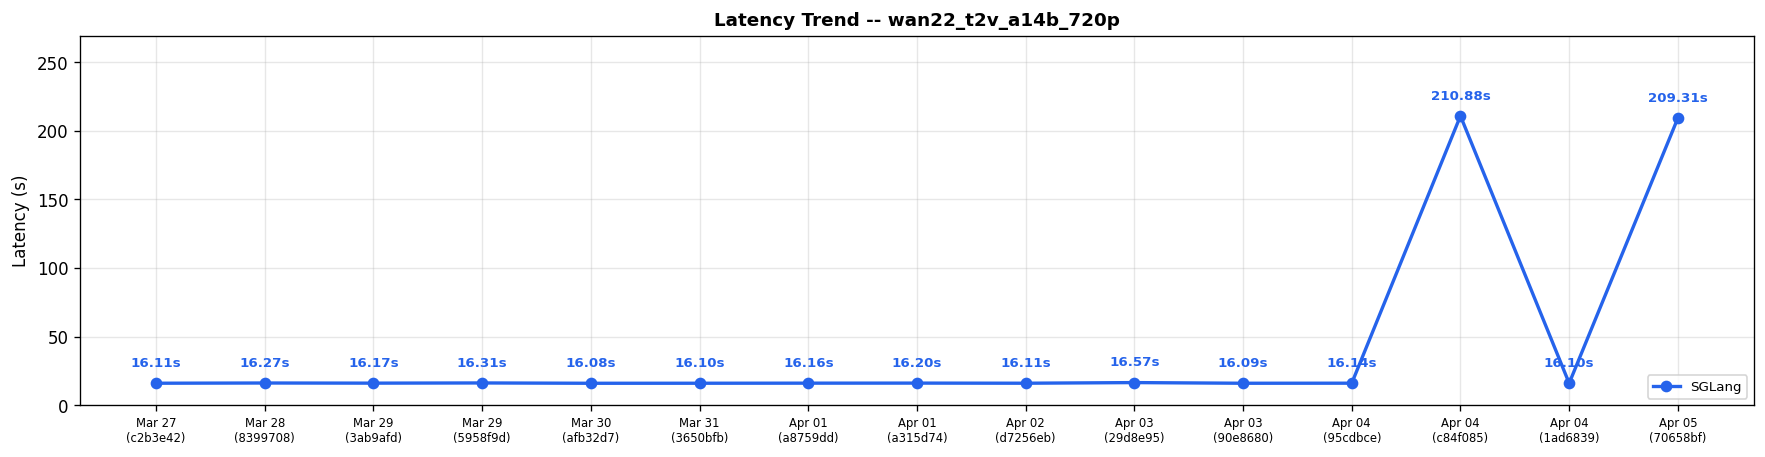
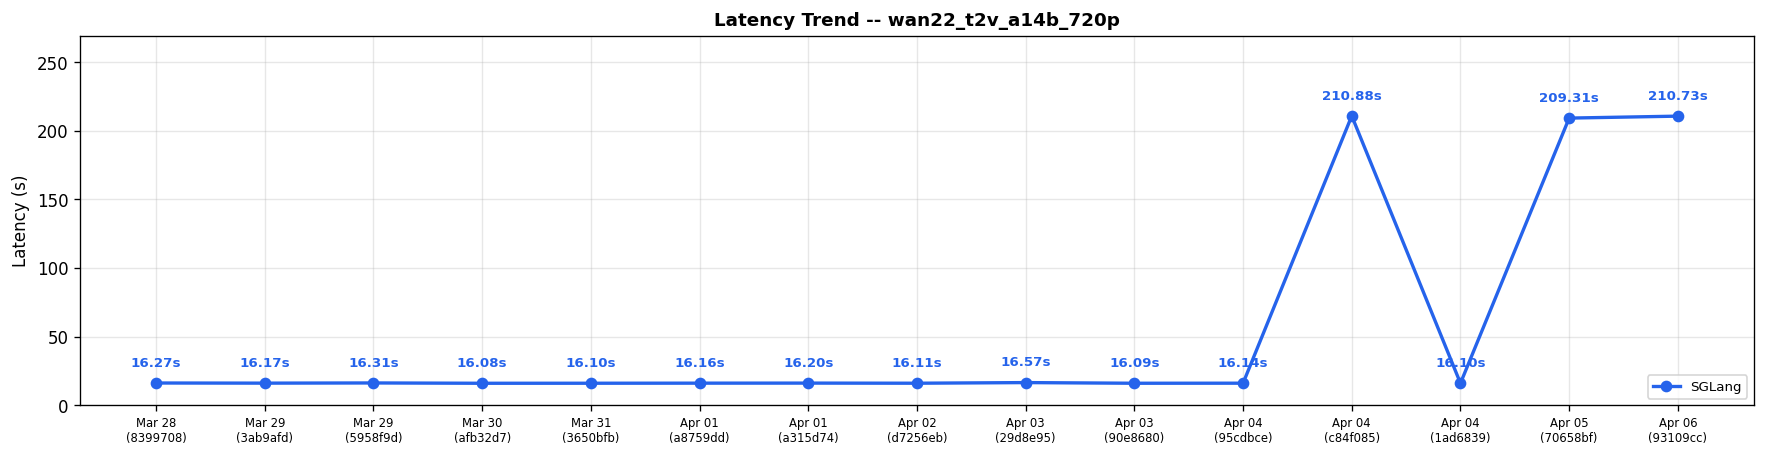
Diffusion comparison results for run 24014261122 (#557)

diff --git a/diffusion-comparisons/dashboard.md b/diffusion-comparisons/dashboard.md
@@ -1,27 +1,20 @@
 # Diffusion Cross-Framework Performance Dashboard
 
-*Generated: Apr 05 | Commit: `70658bf`*
-
-> [!WARNING]
-> **Performance Regression Detected**
->
-> - **wan22_t2v_a14b_720p** (sglang): 16.10s -> 209.31s (+1200.1%)
-> - **wan22_i2v_a14b_720p** (sglang): 21.07s -> 204.55s (+870.7%)
-
+*Generated: Apr 06 | Commit: `93109cc`*
 
 ## Cross-Framework Performance Comparison
 
 | Model | Risk | sglang (s) |
 |-------|------|---------|
-| FLUX.1-dev | ✅ | **6.68** |
-| FLUX.2-dev | ✅ | **22.80** |
-| Qwen-Image-2512 | ⚠ | **14.12** |
-| Qwen-Image-Edit-2511 | ✅ | **23.80** |
-| Z-Image-Turbo | ✅ | **0.88** |
-| Wan2.2-T2V-A14B-Diffusers | ⚠ | **209.31** |
+| FLUX.1-dev | ✅ | **6.70** |
+| FLUX.2-dev | ✅ | **22.86** |
+| Qwen-Image-2512 | ✅ | **13.61** |
+| Qwen-Image-Edit-2511 | ✅ | **23.92** |
+| Z-Image-Turbo | ✅ | **0.89** |
+| Wan2.2-T2V-A14B-Diffusers | ⚠ | **210.73** |
 | Wan2.2-TI2V-5B-Diffusers | ✅ | **62.15** |
-| LTX-2 | ✅ | **14.06** |
-| Wan2.2-I2V-A14B-Diffusers | ⚠ | **204.55** |
+| LTX-2 | ✅ | **14.13** |
+| Wan2.2-I2V-A14B-Diffusers | ⚠ | **207.67** |
 
 ### Latency Trend: flux1_dev_t2i_1024
 
@@ -72,6 +65,7 @@
 
 | Date | Commit | flux1_dev_t2i_1024 (s) | flux2_dev_t2i_1024 (s) | qwen_image_2512_t2i_1024 (s) | qwen_image_edit_2511 (s) | zimage_turbo_t2i_1024 (s) | wan22_t2v_a14b_720p (s) | wan22_ti2v_5b_720p (s) | ltx2_twostage_t2v (s) | wan22_i2v_a14b_720p (s) | Trend |
 |------|--------|---------|---------|---------|---------|---------|---------|---------|---------|---------|-------|
+| Apr 06 | `93109cc` | 6.70 | 22.86 | 13.61 | 23.92 | 0.89 | 210.73 | 62.15 | 14.13 | 207.67 | :left_right_arrow:  :left_right_arrow:  :arrow_down:  :left_right_arrow:  :left_right_arrow:  :left_right_arrow:  :left_right_arrow:  :left_right_arrow:  :left_right_arrow: |
 | Apr 05 | `70658bf` | 6.68 | 22.80 | 14.12 | 23.80 | 0.88 | 209.31 | 62.15 | 14.06 | 204.55 | :left_right_arrow:  :left_right_arrow:  :arrow_up:  :arrow_down:  :left_right_arrow:  :arrow_up:  :arrow_down:   :arrow_up: |
 | Apr 04 | `1ad6839` | 6.71 | 22.85 | 13.56 | 29.57 | 0.89 | 16.10 | 64.20 | N/A | 21.07 | :arrow_down:  :left_right_arrow:  :arrow_up:  :arrow_up:  :arrow_down:  :arrow_down:  :arrow_up:   :arrow_down: |
 | Apr 04 | `c84f085` | 6.86 | 22.87 | 13.16 | 23.95 | 0.93 | 210.88 | 62.21 | 14.89 | 206.55 | :arrow_up:  :left_right_arrow:  :arrow_down:  :arrow_down:  :left_right_arrow:  :arrow_up:  :left_right_arrow:   :arrow_up: |
@@ -85,16 +79,14 @@
 | Mar 30 | `afb32d7` | 6.68 | 22.79 | 13.16 | 29.44 | 0.92 | 16.08 | 62.21 | N/A | 10.04 | :left_right_arrow:  :left_right_arrow:  :left_right_arrow:  :left_right_arrow:  :left_right_arrow:  :left_right_arrow:  :left_right_arrow:   :left_right_arrow: |
 | Mar 29 | `5958f9d` | 6.70 | 22.86 | 13.19 | 29.74 | 0.93 | 16.31 | 62.18 | N/A | 10.04 | :left_right_arrow:  :left_right_arrow:  :left_right_arrow:  :left_right_arrow:  :left_right_arrow:  :left_right_arrow:  :left_right_arrow:   :arrow_up: |
 | Mar 29 | `3ab9afd` | 6.70 | 22.90 | 13.19 | 29.52 | 0.93 | 16.17 | 62.17 | N/A | 9.04 | :left_right_arrow:  :left_right_arrow:  :arrow_down:  :arrow_down:  :left_right_arrow:  :left_right_arrow:  :left_right_arrow:   :arrow_down: |
-| Mar 28 | `8399708` | 6.68 | 22.76 | 13.71 | 31.67 | 0.93 | 16.27 | 62.22 | N/A | 10.04 | :left_right_arrow:  :left_right_arrow:  :arrow_up:  :arrow_up:  :left_right_arrow:  :left_right_arrow:  :left_right_arrow:   :left_right_arrow: |
-| Mar 27 | `c2b3e42` | 6.70 | 22.94 | 13.18 | 29.64 | 0.93 | 16.11 | 62.21 | N/A | 10.04 | -- |
+| Mar 28 | `8399708` | 6.68 | 22.76 | 13.71 | 31.67 | 0.93 | 16.27 | 62.22 | N/A | 10.04 | -- |
 
 > [!CAUTION]
 > **Action Required — Performance Alert**
 >
 > The following cases need attention:
-> - qwen_image_2512_t2i_1024: SGLang regression +5.3% vs 3-run avg (14.12s vs 13.41s)
-> - wan22_t2v_a14b_720p: SGLang regression +158.3% vs 3-run avg (209.31s vs 81.04s)
-> - wan22_i2v_a14b_720p: SGLang regression +146.7% vs 3-run avg (204.55s vs 82.90s)
+> - wan22_t2v_a14b_720p: SGLang regression +44.9% vs 3-run avg (210.73s vs 145.43s)
+> - wan22_i2v_a14b_720p: SGLang regression +44.2% vs 3-run avg (207.67s vs 144.06s)
 
 
 ---
